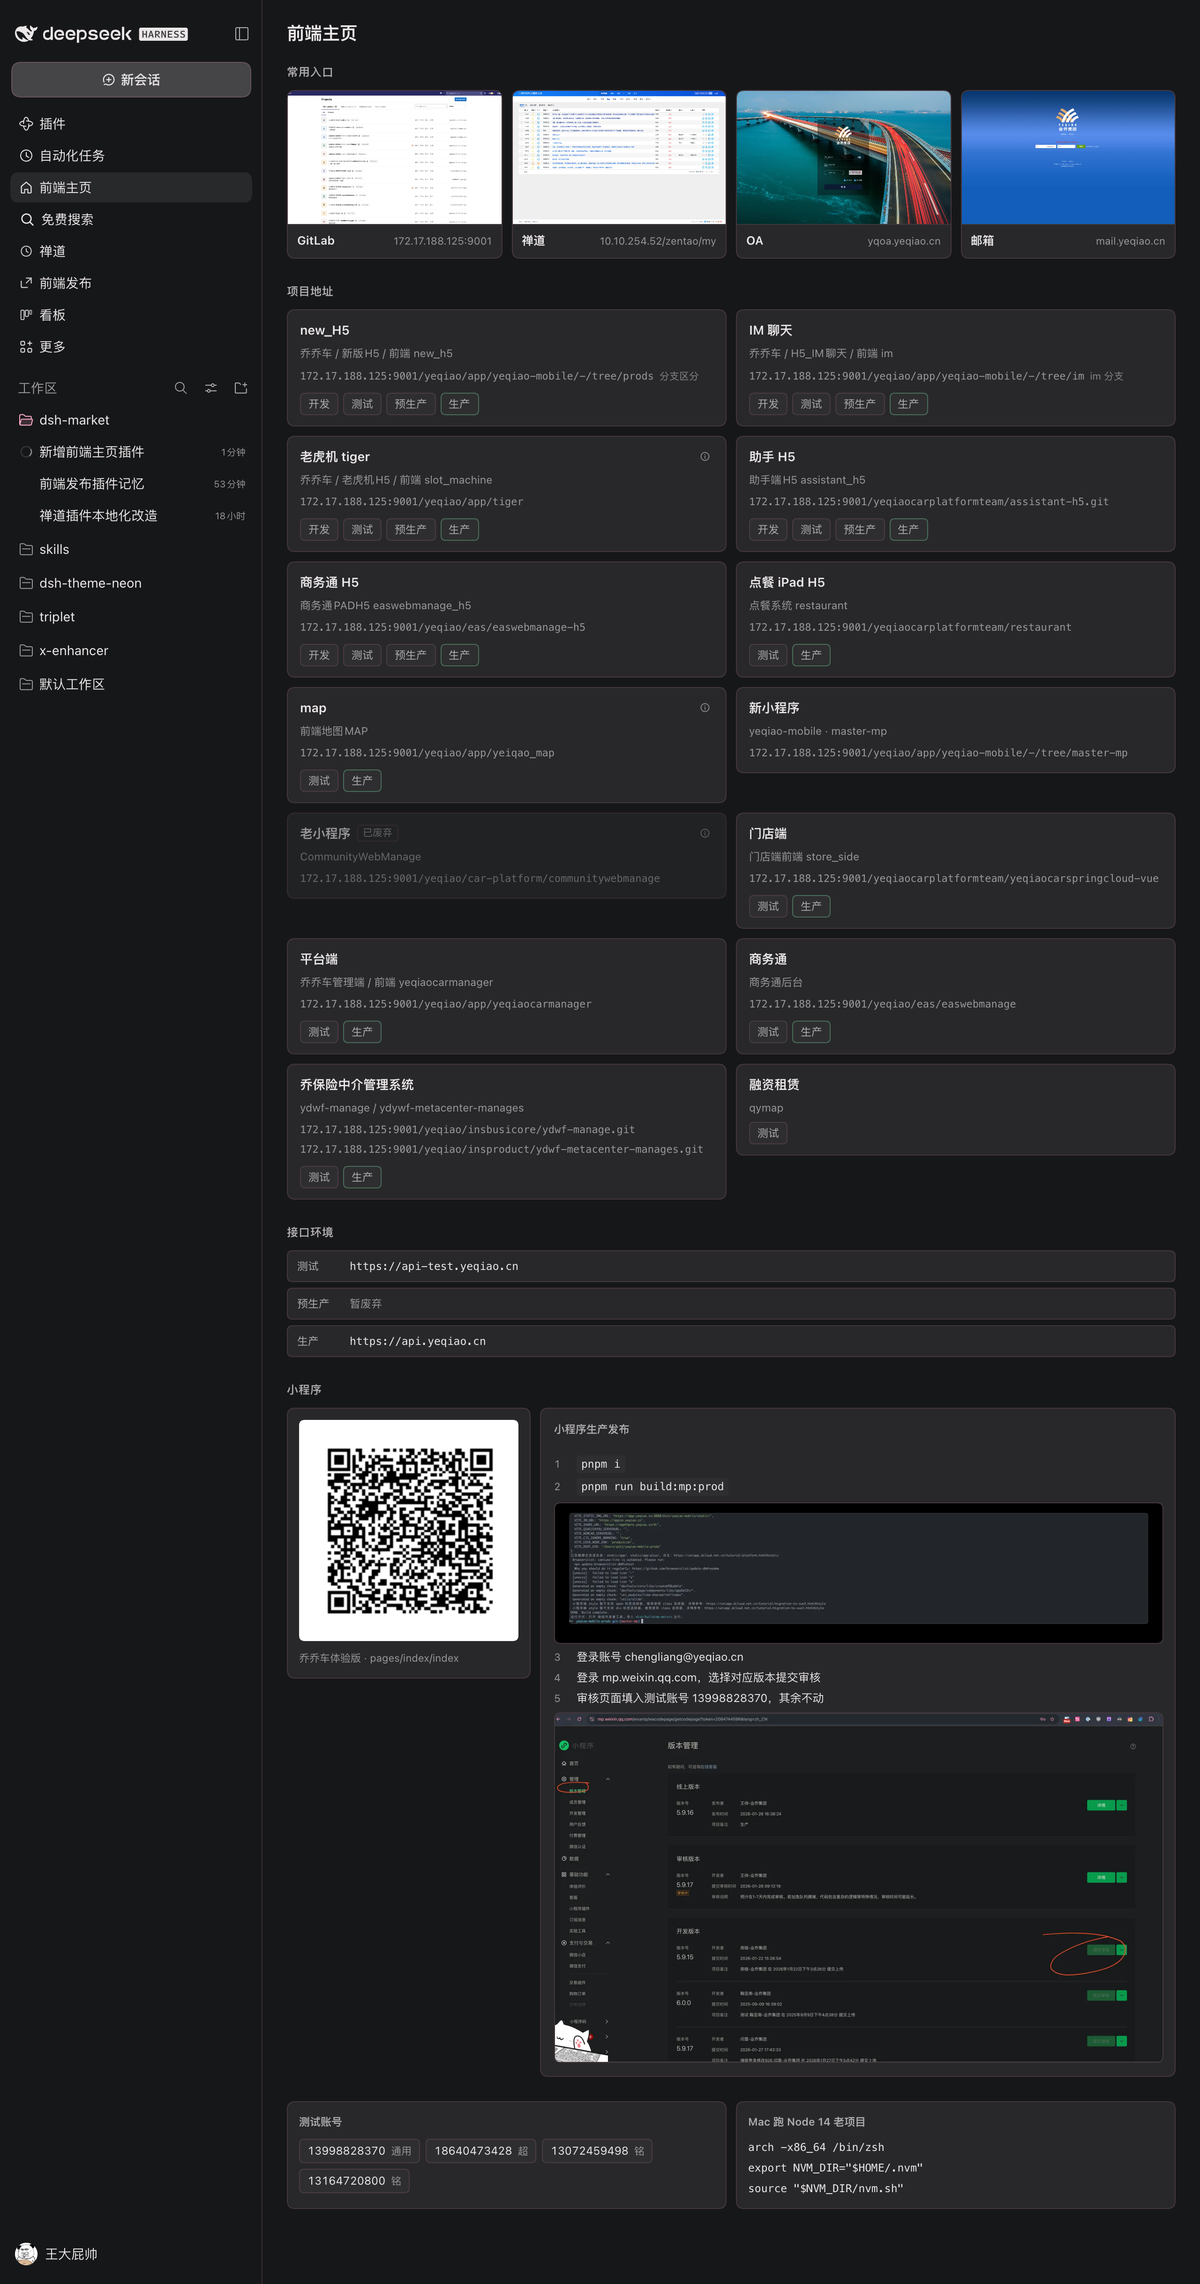
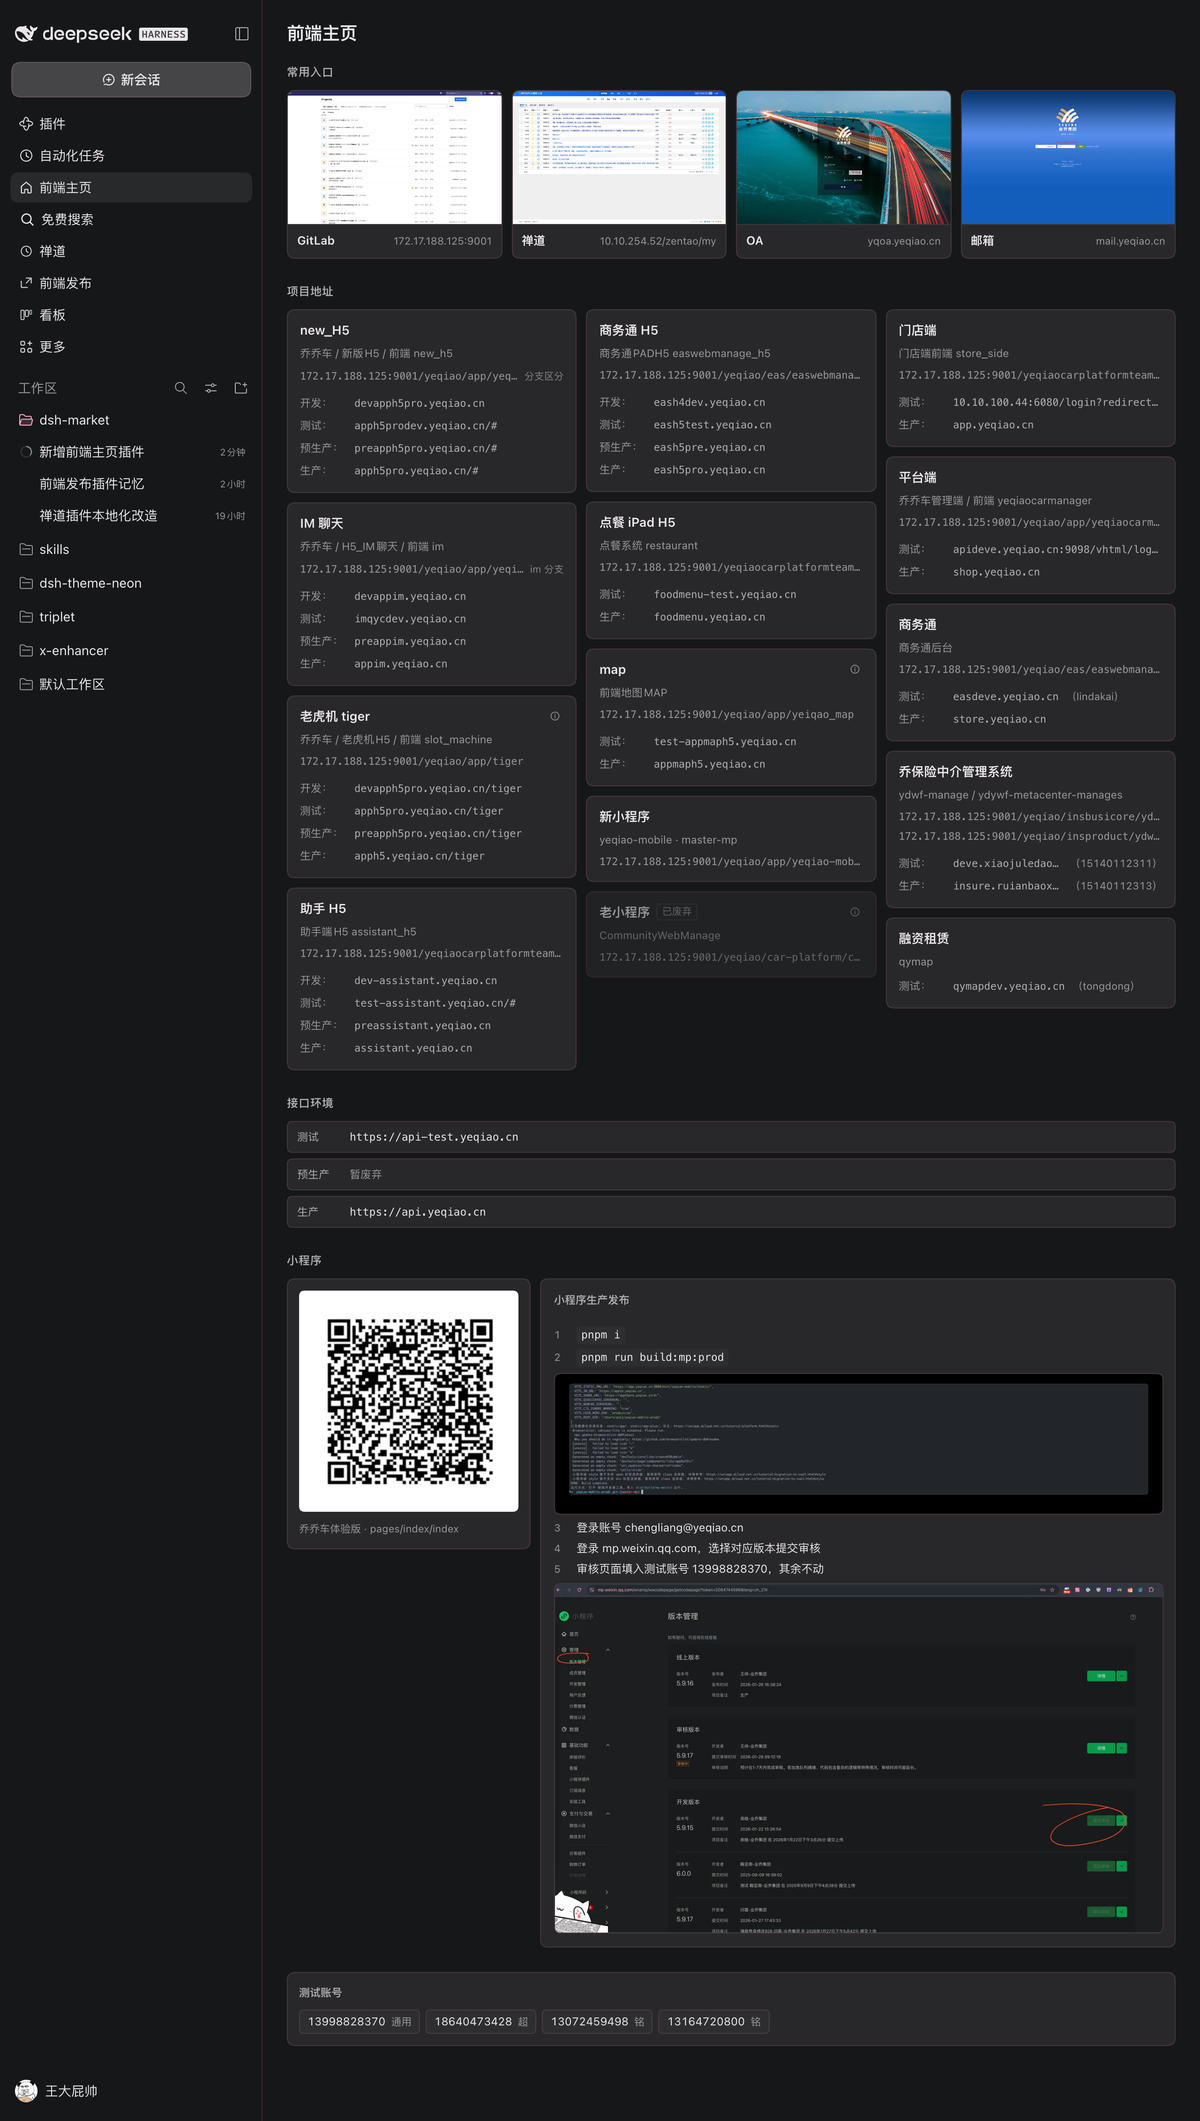
feat(fe-homepage): 环境改一行一条、去掉 Node 14 卡片、项目卡多列紧凑排布

diff --git a/plugins/dsh-plugin-fe-homepage/lib/client.js b/plugins/dsh-plugin-fe-homepage/lib/client.js
@@ -167,6 +167,7 @@ window.__ModuleLoader__.load({
           test: 'https://easdeve.yeqiao.cn',
           prod: 'https://store.yeqiao.cn/',
         },
+        envAccounts: { test: 'lindakai' },
       },
       {
         id: 'insurance',
@@ -180,6 +181,7 @@ window.__ModuleLoader__.load({
           test: 'https://deve.xiaojuledao.com/#/',
           prod: 'https://insure.ruianbaoxian.com/#/',
         },
+        envAccounts: { test: '15140112311', prod: '15140112313' },
       },
       {
         id: 'lease',
@@ -188,6 +190,7 @@ window.__ModuleLoader__.load({
         envs: {
           test: 'https://qymapdev.yeqiao.cn/',
         },
+        envAccounts: { test: 'tongdong' },
       },
     ];
 
@@ -232,12 +235,6 @@ window.__ModuleLoader__.load({
       },
     ];
 
-    const NODE14_STEPS = [
-      'arch -x86_64 /bin/zsh',
-      'export NVM_DIR="$HOME/.nvm"',
-      'source "$NVM_DIR/nvm.sh"',
-    ];
-
     // -------------------------------------------------------------- helpers
 
     /** Document shorthand omits the scheme on a few hosts; links need one. */
@@ -250,9 +247,6 @@ window.__ModuleLoader__.load({
     function bare(url) {
       return href(url).replace(/^https?:\/\//i, '').replace(/\/$/, '');
     }
-
-    const envCount = (project) =>
-      project.envs ? ENVS.filter((env) => Boolean(project.envs[env.id])).length : 0;
 
     // ---------------------------------------------------------------- styles
     //
@@ -307,19 +301,22 @@ window.__ModuleLoader__.load({
   text-transform: uppercase;
   color: var(--dsw-alias-label-secondary);
 }
-.feh-sec-hint { color: var(--dsw-alias-label-tertiary); font-size: 12px; }
 
-/* ---- project grid ---- */
+/* ---- project grid ----
+   Columns, not rows: cards differ in height (a project with four environments
+   is twice a mini-program card), and a row grid leaves a hole under every short
+   card. Columns pack them tight, so the block has no gaps. */
 .feh-grid {
-  display: grid;
-  grid-template-columns: repeat(auto-fill, minmax(318px, 1fr));
-  align-items: start;
-  gap: 10px;
+  column-width: 300px;
+  column-gap: 10px;
 }
 .feh-card {
   display: flex;
   flex-direction: column;
   gap: 8px;
+  margin: 0 0 10px;
+  break-inside: avoid;
+  page-break-inside: avoid;
   padding: 12px 13px 11px;
   border-radius: 10px;
   border: 1px solid var(--dsw-alias-border-l2);
@@ -373,31 +370,44 @@ a.feh-name:hover { color: var(--dsw-alias-link); text-decoration: underline; }
   text-overflow: ellipsis;
   white-space: nowrap;
 }
-.feh-envs { display: flex; flex-wrap: wrap; gap: 5px; }
+/* 环境: one row per environment, 环境名：地址（账号）. The whole row is the link. */
+.feh-envs { display: flex; flex-direction: column; gap: 1px; }
 .feh-env {
-  display: inline-flex;
-  align-items: center;
-  height: 22px;
-  padding: 0 8px;
-  border-radius: 6px;
-  border: 1px solid var(--dsw-alias-border-l2);
-  background: var(--dsw-alias-bg-layer-2);
-  color: var(--dsw-alias-label-secondary);
-  font-size: 11.5px;
+  display: flex;
+  align-items: baseline;
+  gap: 8px;
+  min-width: 0;
+  margin: 0 -5px;
+  padding: 2px 5px;
+  border-radius: 5px;
   text-decoration: none;
-  transition: background 120ms ease, color 120ms ease, border-color 120ms ease;
+  transition: background 120ms ease;
 }
-.feh-env:hover {
-  background: color-mix(in srgb, var(--dsw-alias-brand-primary) 14%, transparent);
-  border-color: color-mix(in srgb, var(--dsw-alias-brand-primary) 40%, transparent);
-  color: var(--dsw-alias-label-primary);
+.feh-env:hover { background: var(--dsw-alias-interactive-bg-hover); }
+.feh-env-label {
+  flex: 0 0 50px;
+  color: var(--dsw-alias-label-tertiary);
+  font-size: 11.5px;
 }
-.feh-env.feh-env-prod {
-  border-color: color-mix(in srgb, var(--dsw-alias-state-success-primary) 34%, transparent);
+.feh-env-url {
+  flex: 0 1 auto;
+  min-width: 0;
+  overflow: hidden;
+  text-overflow: ellipsis;
+  white-space: nowrap;
+  font-family: ui-monospace, SFMono-Regular, Menlo, monospace;
+  font-size: 11px;
+  color: var(--dsw-alias-label-secondary);
 }
-.feh-env.feh-env-prod:hover {
-  background: color-mix(in srgb, var(--dsw-alias-state-success-primary) 16%, transparent);
-  border-color: color-mix(in srgb, var(--dsw-alias-state-success-primary) 55%, transparent);
+.feh-env:hover .feh-env-url {
+  color: var(--dsw-alias-link);
+  text-decoration: underline;
+}
+.feh-env-account {
+  flex: 0 0 auto;
+  color: var(--dsw-alias-label-tertiary);
+  font-size: 11px;
+  font-variant-numeric: tabular-nums;
 }
 /* 仓库/分支: its own row, one per repository, clipped with an ellipsis. */
 .feh-repos { display: flex; flex-direction: column; gap: 3px; min-width: 0; }
@@ -553,7 +563,7 @@ a.feh-api:hover .feh-api-url { color: var(--dsw-alias-link); text-decoration: un
   font-variant-numeric: tabular-nums;
   font-size: 11px;
 }
-.feh-step code, .feh-code {
+.feh-step code {
   font-family: ui-monospace, SFMono-Regular, Menlo, monospace;
   font-size: 11.5px;
   padding: 1px 5px;
@@ -605,11 +615,6 @@ a.feh-api:hover .feh-api-url { color: var(--dsw-alias-link); text-decoration: un
 @keyframes feh-fade { from { opacity: 0 } to { opacity: 1 } }
 
 /* ---- misc ---- */
-.feh-cols {
-  display: grid;
-  grid-template-columns: repeat(auto-fit, minmax(280px, 1fr));
-  gap: 10px;
-}
 .feh-box {
   padding: 12px;
   border-radius: 10px;
@@ -635,14 +640,6 @@ a.feh-api:hover .feh-api-url { color: var(--dsw-alias-link); text-decoration: un
   font-variant-numeric: tabular-nums;
 }
 .feh-chip-who { color: var(--dsw-alias-label-tertiary); font-size: 11px; }
-.feh-lines { display: flex; flex-direction: column; gap: 4px; }
-.feh-line {
-  font-family: ui-monospace, SFMono-Regular, Menlo, monospace;
-  font-size: 11.5px;
-  color: var(--dsw-alias-label-primary);
-  white-space: pre;
-  overflow-x: auto;
-}
 @media (max-width: 900px) {
   .feh-entries { grid-template-columns: repeat(2, minmax(0, 1fr)); }
 }
@@ -728,20 +725,24 @@ a.feh-api:hover .feh-api-url { color: var(--dsw-alias-link); text-decoration: un
           ? h(
               'div',
               { className: 'feh-envs' },
-              envs.map((env) =>
-                h(
+              envs.map((env) => {
+                const url = project.envs[env.id];
+                const account = project.envAccounts?.[env.id];
+                return h(
                   'a',
                   {
                     key: env.id,
-                    className: 'feh-env' + (env.id === 'prod' ? ' feh-env-prod' : ''),
-                    href: href(project.envs[env.id]),
+                    className: 'feh-env',
+                    href: href(url),
                     target: '_blank',
                     rel: 'noreferrer noopener',
-                    title: bare(project.envs[env.id]),
+                    title: href(url),
                   },
-                  env.label,
-                ),
-              ),
+                  h('span', { className: 'feh-env-label' }, `${env.label}：`),
+                  h('span', { className: 'feh-env-url' }, bare(url)),
+                  account ? h('span', { className: 'feh-env-account' }, `（${account}）`) : null,
+                );
+              }),
             )
           : null,
       );
@@ -970,33 +971,17 @@ a.feh-api:hover .feh-api-url { color: var(--dsw-alias-link); text-decoration: un
               { className: 'feh-section' },
               h(
                 'div',
-                { className: 'feh-cols' },
+                { className: 'feh-box' },
+                h('h3', { className: 'feh-box-title' }, '测试账号'),
                 h(
                   'div',
-                  { className: 'feh-box' },
-                  h('h3', { className: 'feh-box-title' }, '测试账号'),
-                  h(
-                    'div',
-                    { className: 'feh-chips' },
-                    TEST_ACCOUNTS.map((account) =>
-                      h(
-                        'span',
-                        { key: account.phone, className: 'feh-chip' },
-                        account.phone,
-                        h('span', { className: 'feh-chip-who' }, account.who),
-                      ),
-                    ),
-                  ),
-                ),
-                h(
-                  'div',
-                  { className: 'feh-box' },
-                  h('h3', { className: 'feh-box-title' }, 'Mac 跑 Node 14 老项目'),
-                  h(
-                    'div',
-                    { className: 'feh-lines' },
-                    NODE14_STEPS.map((line) =>
-                      h('span', { key: line, className: 'feh-line' }, line),
+                  { className: 'feh-chips' },
+                  TEST_ACCOUNTS.map((account) =>
+                    h(
+                      'span',
+                      { key: account.phone, className: 'feh-chip' },
+                      account.phone,
+                      h('span', { className: 'feh-chip-who' }, account.who),
                     ),
                   ),
                 ),

diff --git a/plugins/dsh-plugin-fe-homepage/README.md b/plugins/dsh-plugin-fe-homepage/README.md
@@ -2,22 +2,24 @@
 
 一个标签页里看全前端项目的地址：开发、测试、预生产、生产各一份，点一下就在新标签页打开。
 
-![前端主页](docs/panel.png)
+![前端主页：常用入口、项目地址、接口环境、小程序、测试账号](docs/panel.png)
 
 ## 内容
 
 - **常用入口**：GitLab、禅道、OA、邮箱，四张带截图的卡片占满一行、等宽。
-- **项目地址**：每个项目一张卡，列出有值的环境（只有测试环境的项目就只显示测试）。
-  仓库/分支单独一行，点了跳 GitLab；下面才是环境按钮。
+- **项目地址**：每个项目一张卡。仓库/分支单独一行，点了跳 GitLab；下面按环境一行一条，
+  形如 `测试：apph5prodev.yeqiao.cn/#`，有账号的环境在行尾标账号名（只有测试环境的项目
+  就只列测试）。整行都是链接。
 - **接口环境**：测试与生产接口地址。
 - **小程序**：左边体验版二维码，点开可放大；右边一张「小程序生产发布」卡片，五步流程，
   构建输出和提审页面两张截图跟在对应步骤下面，同样点开放大。
-- **测试账号**：只列手机号，不列密码。
+- **测试账号**：通用测试手机号，不列密码。
 
 ## 说明
 
 - 页面是纯静态的：地址、步骤、截图都写在 `lib/client.js` 里，没有接口请求，也没有配置项。
-  改地址就改这个文件里的 `PROJECTS` / `ENTRIES` / `APIS` / `MP_RELEASE`。
+  改地址就改这个文件里的 `PROJECTS` / `ENTRIES` / `APIS` / `MP_RELEASE`；某个环境要标账号，
+  在该项目上加 `envAccounts: { test: '账号名' }`。
 - 截图在 `assets/` 下，通过包的 `./assets/*` 导出，由 DSH 在
   `/plugins/dsh-plugin-fe-homepage/assets/<file>` 提供；体积压到 292 KB，加载不走网络。
 - 密码不在这份代码里，也不在任何截图里。源文档中的账号只保留账号名。
